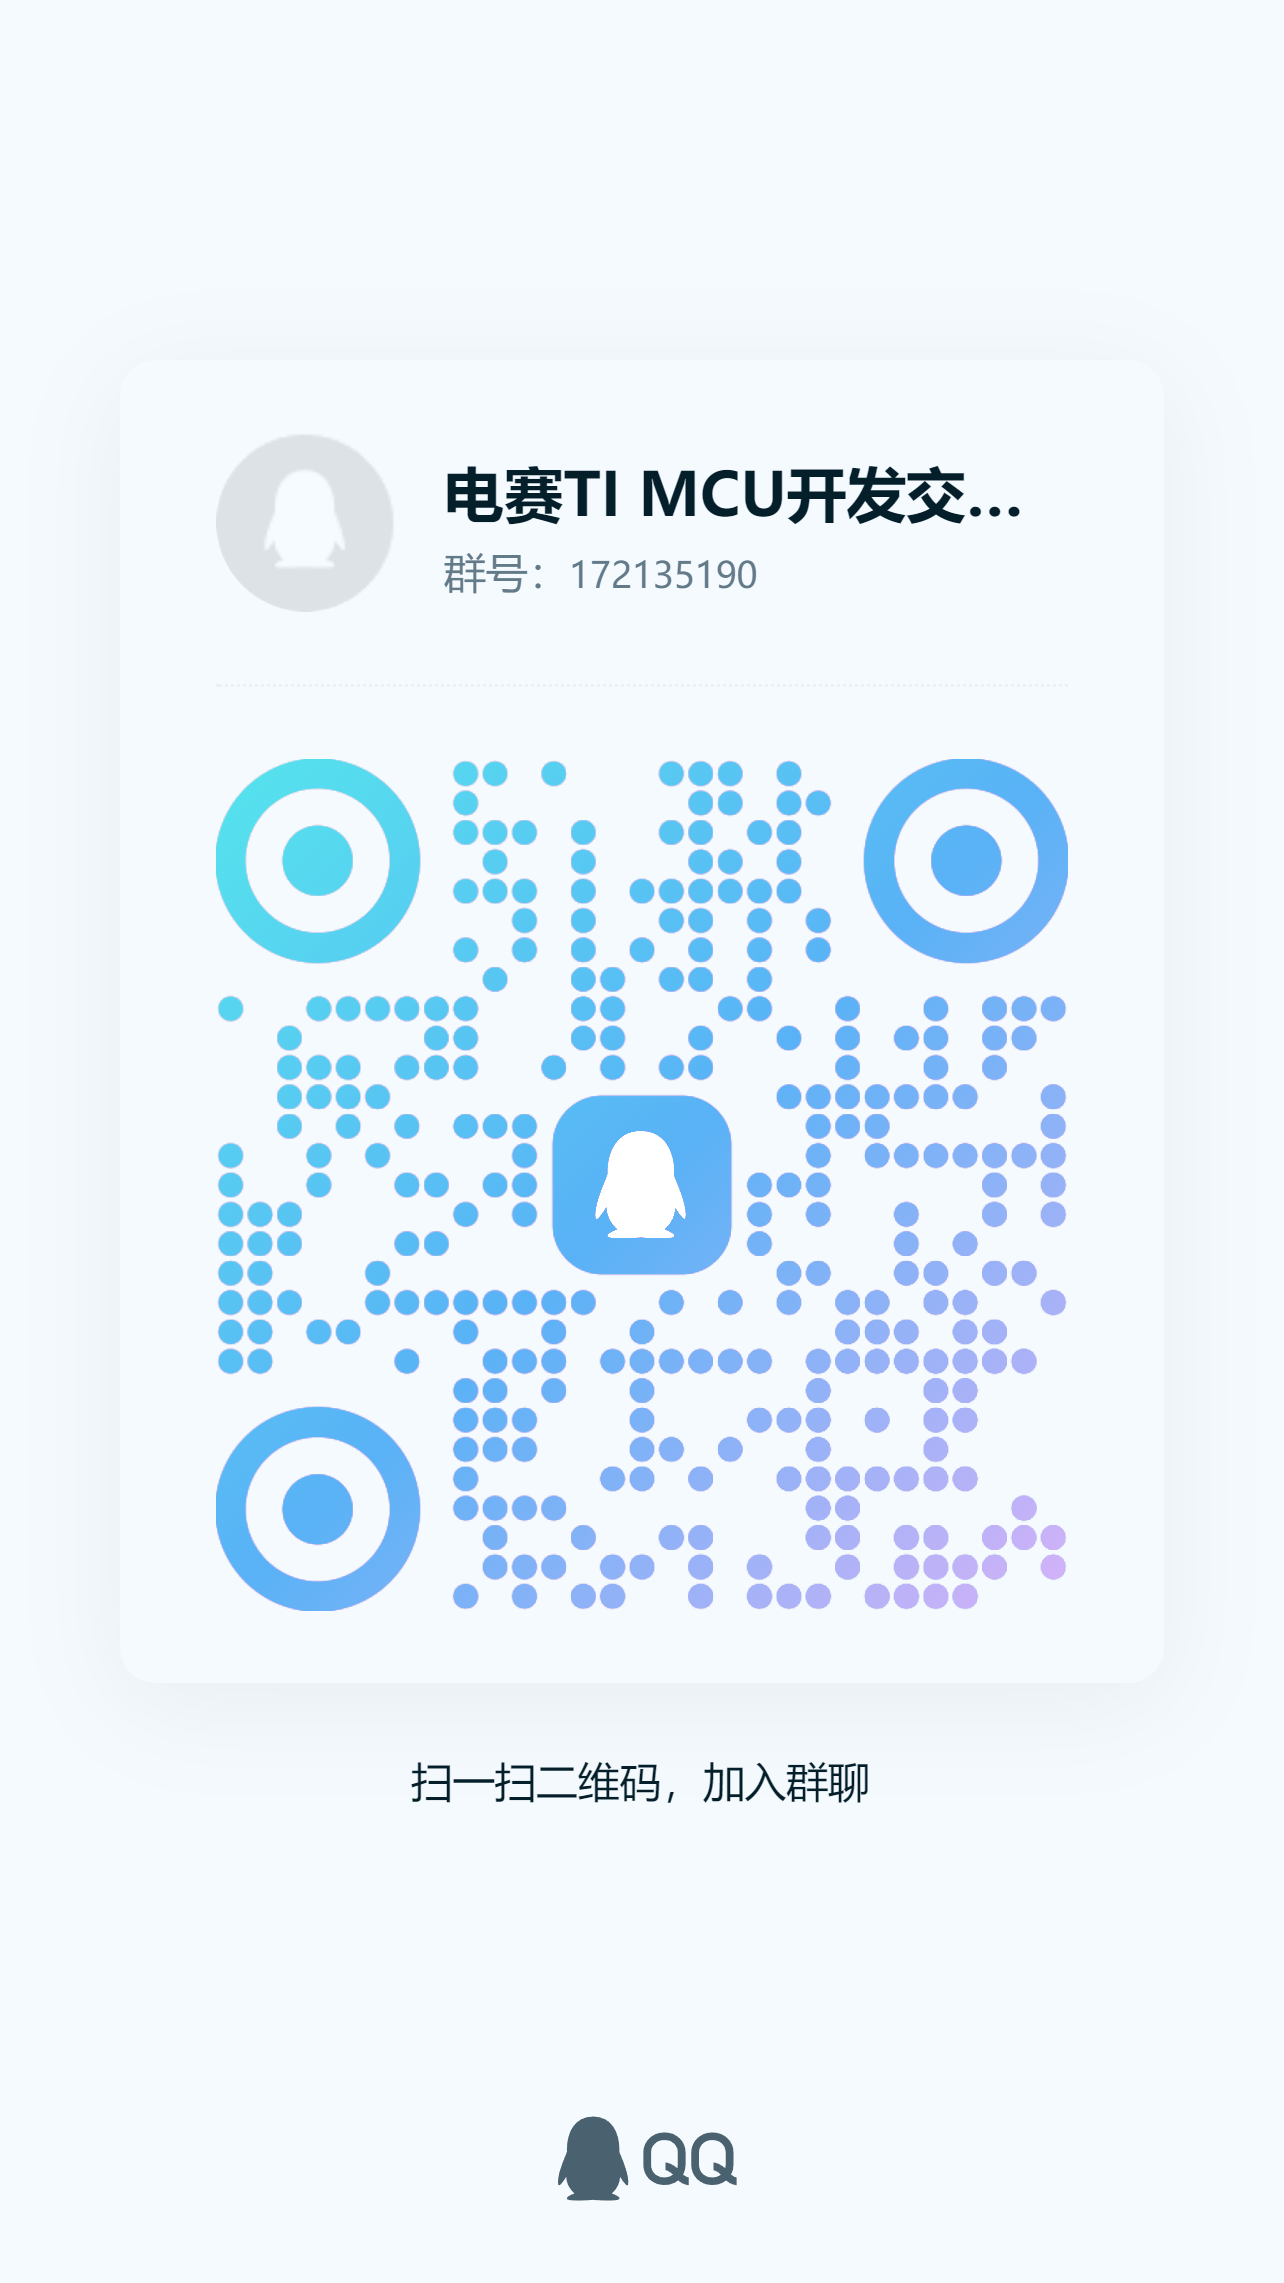
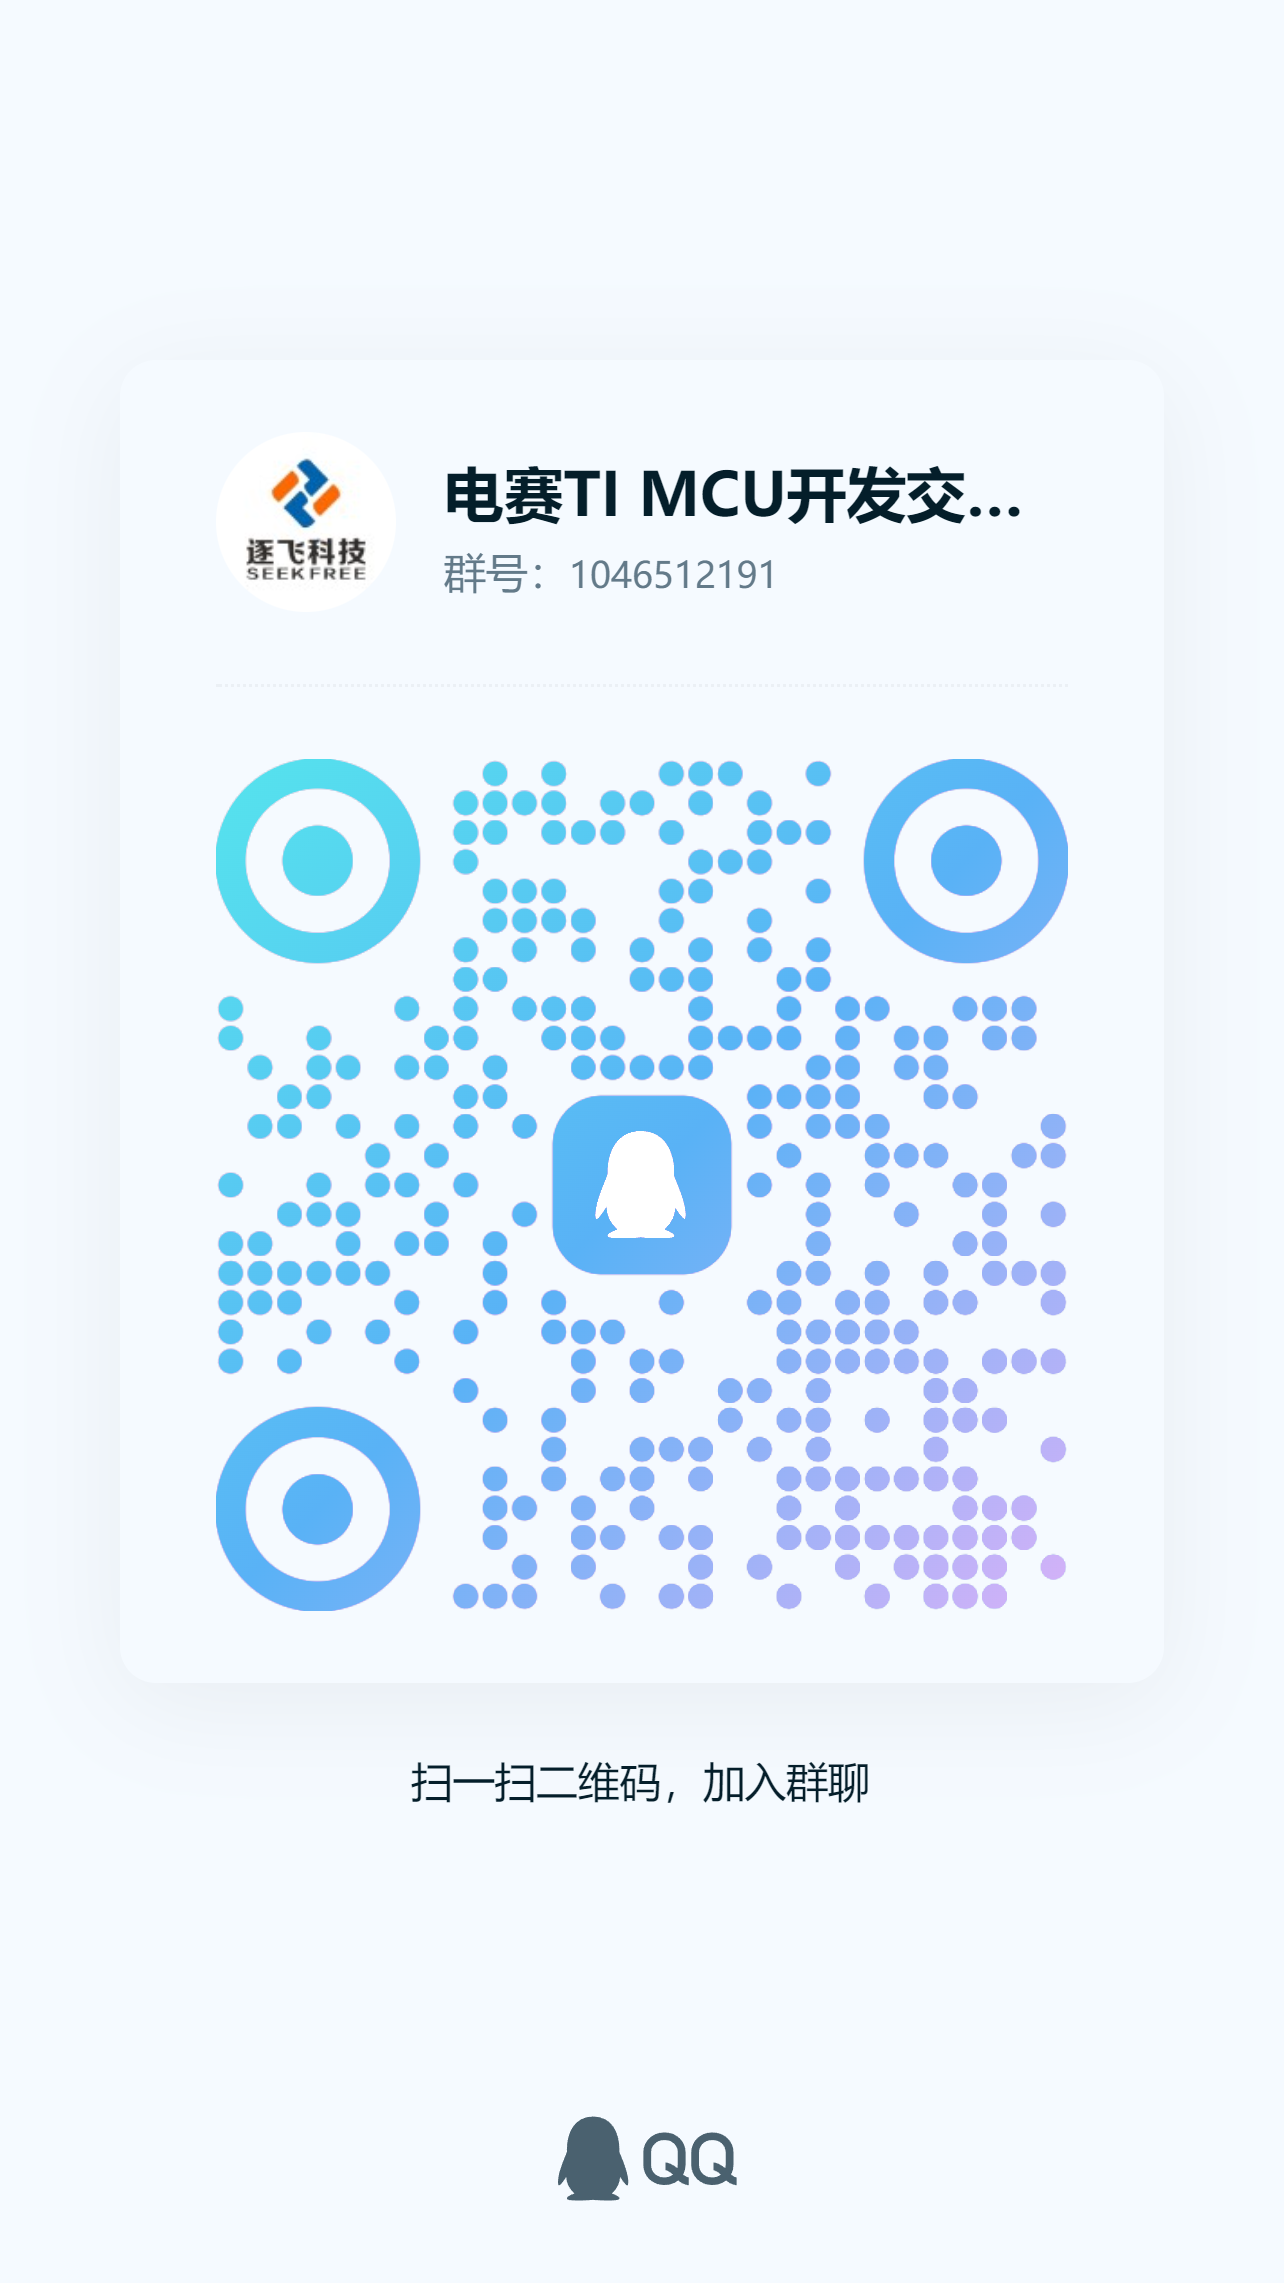
更新readme

diff --git a/README.md b/README.md
@@ -69,7 +69,7 @@
  **总结语** 
    #### **使用过逐飞库的同学一定非常熟悉上面的介绍啦，没使用过的同学也完全不用担心，使用该库来进行开发的底层工作变得非常简单。但其实我们做MSPM0G3507逐飞开源库的目的是为了让前期比较盲目的初学者能通过这些学习资料快速上手，不被门槛拦在外面，尽快入门，想尽快的把全新单片机使用起来，的确需要多查阅一些资料，去学习怎么使用这些单片机的资源，我们做的工作也仅限于方便初学者能多一条路子把这款单片机用起来。同时，我们也鼓励学有余力的朋友们自己开发底层，这个过程会让你积累很多嵌入式开发的技能和知识。**
 
-   ![逐飞科技TI MCU交流群](https://gitee.com/seekfree/MSPM0G3507_Library/raw/master/assets/qq.png  "逐飞科技TI MCU交流群.jpg")
+![qq](./assets/qq.png)
 
-  **好了，本开源项目介绍就到这里了，本开源项目所使用的扩展板、核心板、外设模块均已上架逐飞淘宝店，感谢各位支持（seekfree.taobao.com），你们的支持是我们开源的动力，如果能帮到大家，深感荣幸。时间紧张，水平有限，大神轻拍，如果开源项目中有任何BUG，欢迎留言反馈，逐飞会持续维护和完善，也可通过扫描上方的二维码加入QQ群与我们进行交流讨论（TI MCU开发交流群-逐飞科技：172135190）。也欢迎各位持续关注“逐飞科技”微信公众号，逐飞的开源项目、技术分享及竞赛的相关信息更新都会在该公众号上发布。感谢！ 我们下一个开源项目再见。**
+  **好了，本开源项目介绍就到这里了，本开源项目所使用的扩展板、核心板、外设模块均已上架逐飞淘宝店，感谢各位支持（shop480760048.taobao.com），你们的支持是我们开源的动力，如果能帮到大家，深感荣幸。时间紧张，水平有限，大神轻拍，如果开源项目中有任何BUG，欢迎留言反馈，逐飞会持续维护和完善，也可通过扫描上方的二维码加入QQ群与我们进行交流讨论（TI MCU开发交流群-逐飞科技：1046512191）。也欢迎各位持续关注“逐飞科技”微信公众号，逐飞的开源项目、技术分享及竞赛的相关信息更新都会在该公众号上发布。感谢！ 我们下一个开源项目再见。**
 
